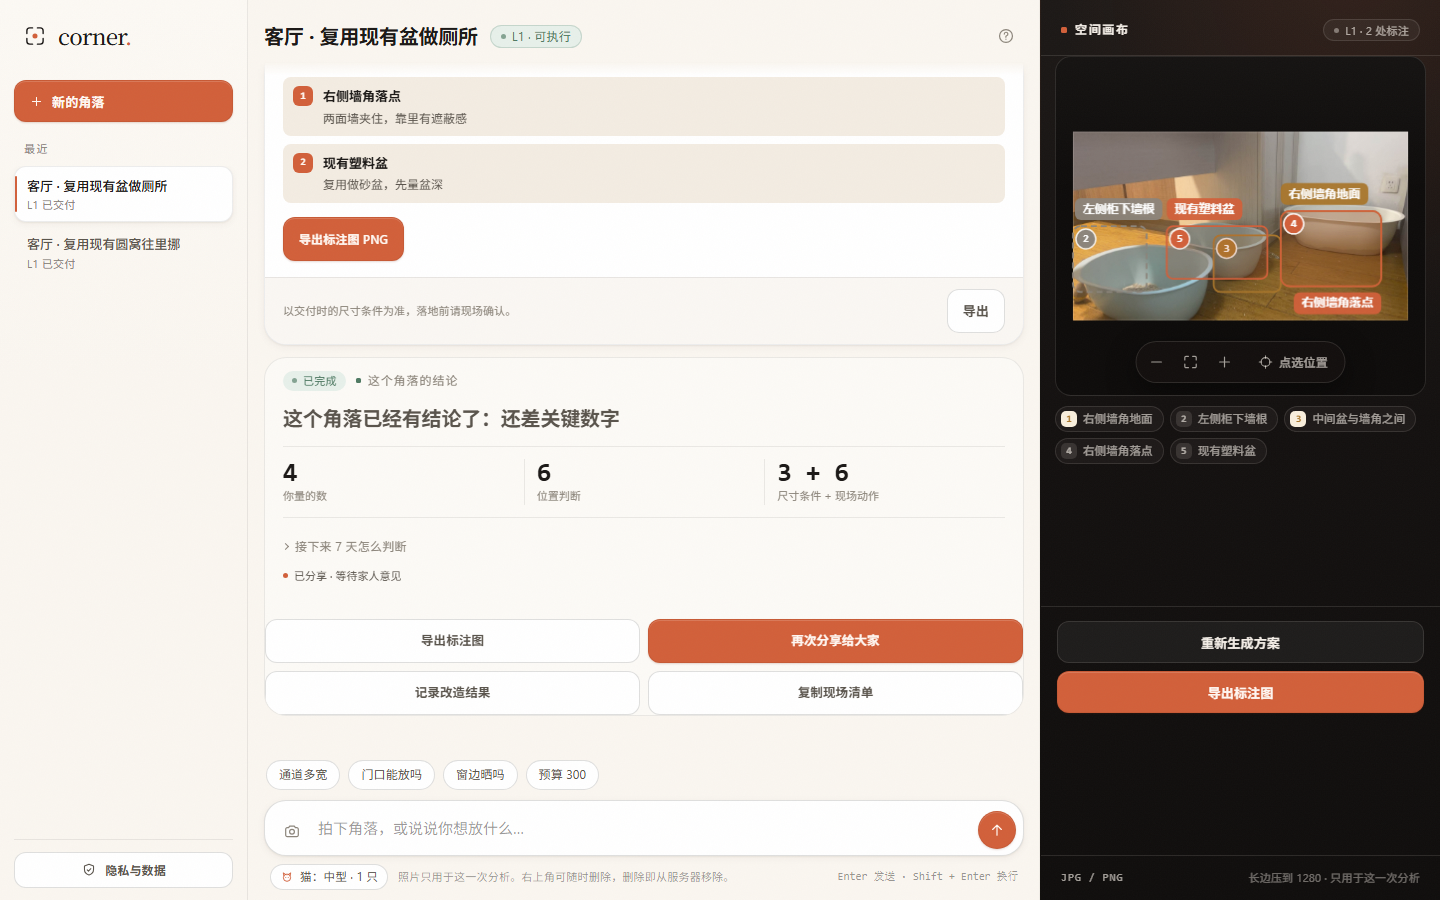
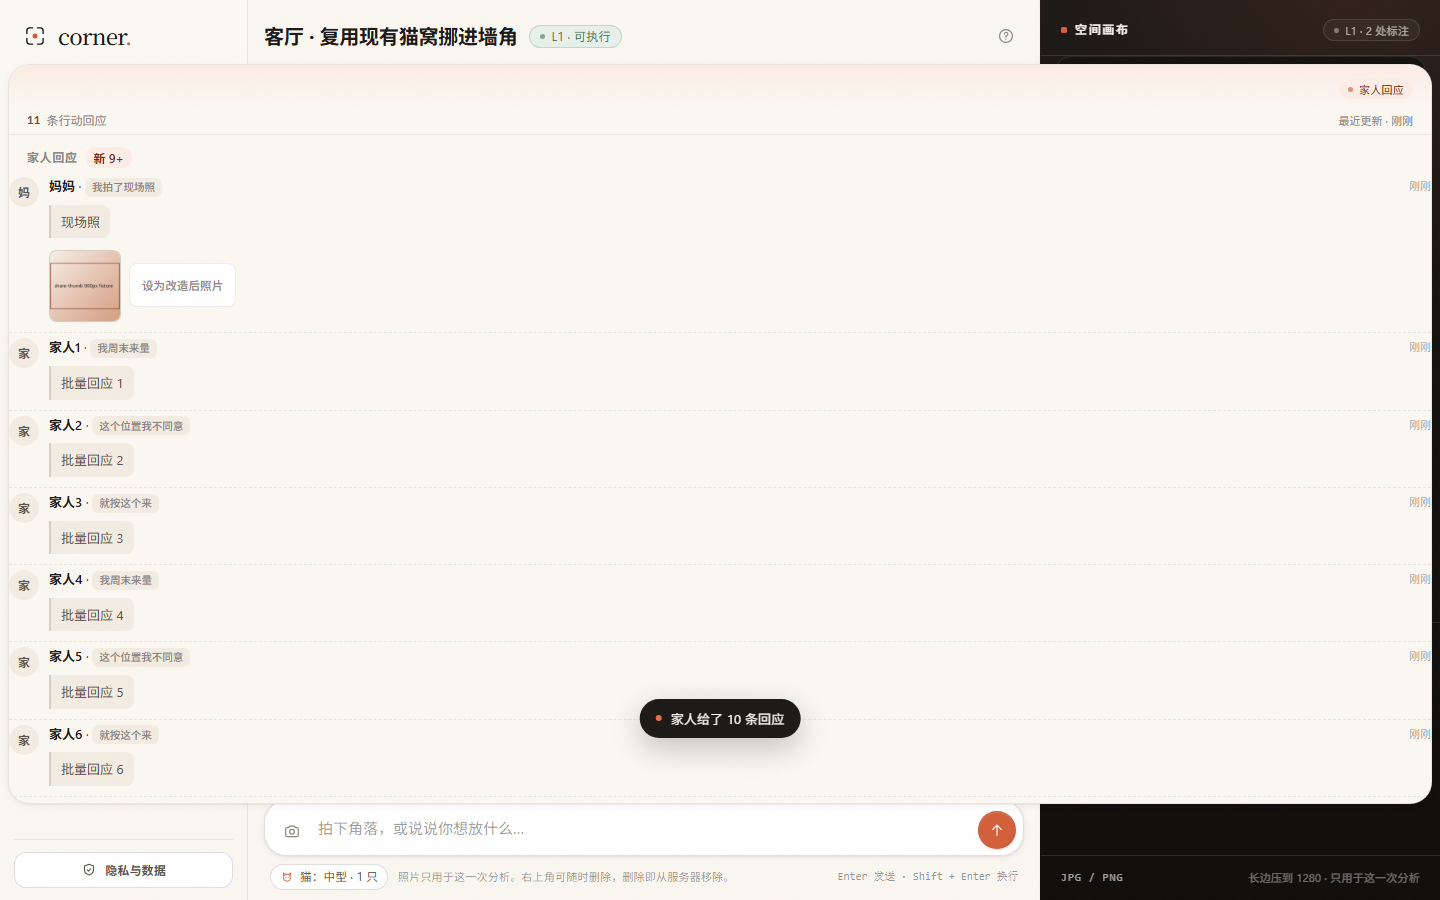
test(V4.1): 独立验收（72 checks）+ QA 报告 + 测试工具增强
- tests/v4.1-receipt.mjs：双基线/toast 三分支/同轮双 toast/9+ 角标/跨进程持久化/老数据容错
- tests/cdp-probe.mjs 增加 --profile（跨进程 localStorage）与 wheel 步骤
- tests/v3-shots.mjs：已读判定收紧后的真实滚动断言
- docs/QA-REPORT-V4.1.md：PASS + DoD + 4 条非阻断观察
- 截图 24/25：照片 toast + 新 9+ 未读

diff --git a/docs/QA-REPORT-V4.1.md b/docs/QA-REPORT-V4.1.md
@@ -1,0 +1,134 @@
+# 猫角落 Corner · V4.1 独立验收报告（家人回应的回执与未读）
+
+> 验收方：verifier（独立于实现方；只写 `tests/**`、`docs/**`）
+> 契约依据：`docs/CONTRACT-V4.1.md`
+> **最终结论：PASS** —— 独立验收 3 个浏览器场景 / **72 checks 全部通过**；V1/V2/V3/V4 既有回归全绿。
+> 本文件 UTF-8 无 BOM。
+
+---
+
+## 1. 验收环境与产物
+
+| 项 | 内容 |
+|---|---|
+| 服务端 | `http://127.0.0.1:8848`，V4.1 前端（ui-logic/ui-shell 已冻结） |
+| 验收脚本 | `tests/v4.1-receipt.mjs`（独立编写，未复用 Lead 的 `.scratch/v4.1-receipt.mjs`） |
+| 运行 | `2026-10-24 22:51:23`，runId `2026-10-24_14-51-23` |
+| 结果 | **PASS**：3 场景（owner-390 / owner-390-reload / owner-1440）/ **72 checks** / failed=0 |
+| 证据 | `.scratch/qa-v41-receipt-2026-10-24_14-51-23.json`、`.scratch/qaV41-receipt-run6.log` |
+| 截图 | `docs/screens/24-receipt-toast-390.png`、`docs/screens/25-receipt-unread-1440.png` |
+| 清理 | 只删本脚本创建的 session / share / respond 图片 |
+
+> 测试方法：CDP 真仿真（390×844 / 1440×900）+ 页面内 `fetch` 注入家人回应，避免“轮询时间差”干扰；
+> 用两个浏览器 profile：A 用于「已读基线 + 刷新持久化」，B 用于「首次无基线」。
+> 因主人端打开的是「最近更新会话」，每次 CDP 前会 touch 本会话，确保打开的是被测会话（测试侧处理，不修改产品）。
+
+---
+
+## 2. 契约逐条验收
+
+### 2.1 toast 三分支（§3）
+
+| 情况 | 期望 | 实测 | 结果 |
+|---|---|---|---|
+| 1 条，带照片 | `家人拍了现场照 · 1 张` | `家人拍了现场照 · 1 张` | ✅ |
+| 1 条，无照片 | `家人回应了你 · <label>` | `家人回应了你 · 我周末来量` | ✅ |
+| 2 条及以上 | `家人给了 N 条回应` | `家人给了 2 条回应` / `家人给了 10 条回应` | ✅ |
+| 投票 + 回应同轮 | 两条都出现、先投票后回应、不互相覆盖 | DOM 顺序：`家人给了意见 · 支持 1 · 犹豫 0` → `家人拍了现场照 · 1 张`（回应延后 450ms） | ✅ |
+
+### 2.2 未读角标 / handoff 状态（§4）
+
+| 情况 | 期望 | 实测 | 结果 |
+|---|---|---|---|
+| 卡内角标 | `.respond-unread-chip` 文本 `新 N`，`aria-label="N 条新回应"` | `新 1` / `1 条新回应` | ✅ |
+| 未读 ≥10 | 文本 `新 9+`，aria 用完整数字 | `新 9+` / `10 条新回应` | ✅ |
+| 交付卡 `respondCount=0` | `已分享 · 等待家人意见` | 一致 | ✅ |
+| `respondCount>0` 且有未读 | `家人已回应 N 条 · N 条新` | `家人已回应 11 条 · 10 条新` | ✅ |
+| `respondCount>0` 且无未读 | `家人已回应 N 条`（无“新”） | 一致 | ✅ |
+| 未分享 | 状态行隐藏/空 | `statusHidden=true` 且文案空 | ✅ |
+
+### 2.3 已读与基线（§2/§5）
+
+| 情况 | 期望 | 实测 | 结果 |
+|---|---|---|---|
+| 未读时 | 基线不写入 | `corner.respondsRead.<sid>` = null、`corner.votesRead.<sid>` = null | ✅ |
+| 点卡片已读 | 角标清零、状态行无“新”、基线=当时 count | `respondsRead=1`、`votesRead=0`、角标空、状态行「家人已回应 1 条」 | ✅ |
+| 刷新（有基线） | 不再 toast、无未读、基线保留 | 无 toast、无角标、`respondsRead=1`、状态行不变 | ✅ |
+| 首次无基线 | 不 toast，仅角标 | 无 toast、`新 1`、aria「1 条新回应」、基线仍空 | ✅ |
+| 未读期间再收 10 条 | 基线保持旧值，不提前写入 | 基线仍 `1`；全部已读后写 `11` | ✅ |
+| 缺失 `responds/respondCount` 老数据 | 不报错、按 0 处理 | 无异常、无 banner；恢复真实数据后卡片与状态行恢复 | ✅ |
+
+### 2.4 健康与移动端（DoD）
+
+| 项 | 实测 |
+|---|---|
+| 390 无横向溢出 / 无 banner / 无 JS 异常 | ✅（owner-390、owner-390-reload） |
+| 1440 同上 | ✅（owner-1440） |
+| `tinyButtons`（<40px） | 390 = **0**，1440 = **0** |
+
+---
+
+## 3. 关键实测数字
+
+```
+owner-390:        4.9s  — 照片 toast + 新1 + handoff·1条新 → 点击已读 → 基线 respondsRead=1 / votesRead=0
+owner-390-reload: 3.4s  — 有基线刷新：无 toast、无角标、基线=1
+owner-1440:      10.8s  — 首次无基线（新1 无 toast）→ 首读基线=1 → 再收 10 条（新 9+ / aria 10 条）
+                          → 全部已读基线=11 → 投票+回应同轮双 toast（先投票后回应）
+                          → 单条无照片 toast → 2 条 toast → 基线=15 → 老数据容错 OK
+```
+
+---
+
+## 4. 观察项（不阻断 DoD）
+
+| ID | 级别 | 观察 | 建议 / 负责 |
+|---|---|---|---|
+| OBS-V41-1 | 说明 | 同轮到达的两条 toast 依赖 `setTimeout(450ms)` 避免覆盖；测试在 1s 窗口内可稳定看到两条。若未来 toast 生命周期缩短，需同步调整延迟 | 保持 2.6s 生命周期即可；ui-logic（无需动作） |
+| OBS-V41-2 | P3（测试可读性） | 已读后基线写入的是「当时拉取到的 count」，若拉取与点击之间有新回应，未读不会丢（下次仍会提示）——实现符合“最后已知”语义 | 无需改 |
+| OBS-V41-3 | P3（截图方式） | 24/25 截图为了同时展示 toast/角标，测试临时把 `.card-votes` 钉在视口内再截图，随后恢复 DOM（页面逻辑未改）；截图内容为真实卡片与 toast | 仅证据说明，不影响验收 |
+| OBS-V41-4 | 说明（回归口径） | V4.1 已读条件收紧为「用户滚动（wheel/touch/键盘）且卡片 ≥90% 可见」；程序化 `scrollTop` 不再清未读。V3 旧测试因此失败，已改为真实 `mouseWheel` 事件后 PASS | 契约行为变更，非产品回归；verifier 已更新测试 |
+
+> 未发现 P0/P1；契约 §2-§5 的实现与 Lead 描述一致。
+
+---
+
+## 5. DoD 对照（`docs/CONTRACT-V4.1.md` §8）
+
+| DoD | 状态 | 证据 |
+|---|---|---|
+| 页面开着时家人新发一条回应（含照片）→ 3 秒内 toast，卡内「新 1」 | ✅ | owner-390：toast 800ms 内出现、`新 1` |
+| 卡片滚入视口/点击 → 角标消失、交付卡「家人已回应 N 条」（不带“新”），刷新后仍不显示未读 | ✅ | owner-390 + reload |
+| 刷新页面（有基线）→ 不弹 toast、无未读 | ✅ | owner-390-reload |
+| 首次打开（无基线）→ 不弹 toast、只有角标 | ✅ | owner-1440 firstNoBaseline |
+| 投票与回应同时到达 → 两条 toast 内容正确、不互相覆盖 | ✅ | `["家人给了意见 · 支持 1 · 犹豫 0","家人拍了现场照 · 1 张"]` |
+| 390/1440 无溢出、无 banner、无 JS 异常；tinyButtons=0 | ✅ | 三场景 diag + tinyButtons 计数 |
+
+---
+
+## 6. 回归（同一冻结服务端/前端）
+
+| 套件 | 结果 |
+|---|---|
+| `dom-check` | **PASS 5 checks** |
+| `api-e2e-v2` | **PASS 6 阶段 697 checks（57.7s）** |
+| `api-e2e-v3` | **PASS 13 阶段 218 checks（21.5s）** |
+| `api-e2e-v4` | **PASS 9 阶段 80 checks** |
+| `v3-shots` | **PASS 161 checks / 6 场景**（已把 V3 的「未读清零」步骤从程序化 `scrollTop` 改为真实 wheel 用户滚动——V4.1 §5 明确「程序化滚动不算已读」，旧断言不再适用） |
+
+> **回归口径变化（重要）**：V4.1 把「已读」条件收紧为「用户自己滚动过（wheel/touchmove/键盘）且卡片 ≥90% 可见」；V3 旧测试用 `feed.scrollTop=...` 程序化滚动，因此不再触发已读。这是**契约要求的行为变更，不是产品回归**；`tests/v3-shots.mjs` 已改为先程序化定位、再发送真实 `mouseWheel` 事件触发用户滚动，复测 PASS。
+
+---
+
+## 7. 证据文件
+
+| 文件 | 内容 |
+|---|---|
+| `tests/v4.1-receipt.mjs` | V4.1 独立验收（3 场景 72 checks） |
+| `.scratch/qa-v41-receipt-2026-10-24_14-51-23.json` | 最终轮证据（每步 value、截图、diag） |
+| `.scratch/qaV41-receipt-run6.log` | 最终轮控制台输出 |
+| `.scratch/qaV41-reg-*.log` | dom / v2 / v3 / v4 / v3-shots 回归输出 |
+| `docs/screens/24-receipt-toast-390.png` | 390：照片回应 toast + 卡内「新 1」 |
+| `docs/screens/25-receipt-unread-1440.png` | 1440：卡内「新 9+」+ 11 条回应 + 「家人给了 10 条回应」toast |
+
+_本报告为 V4.1 最终版；结论 PASS（72 checks），未发现 P0/P1。_
